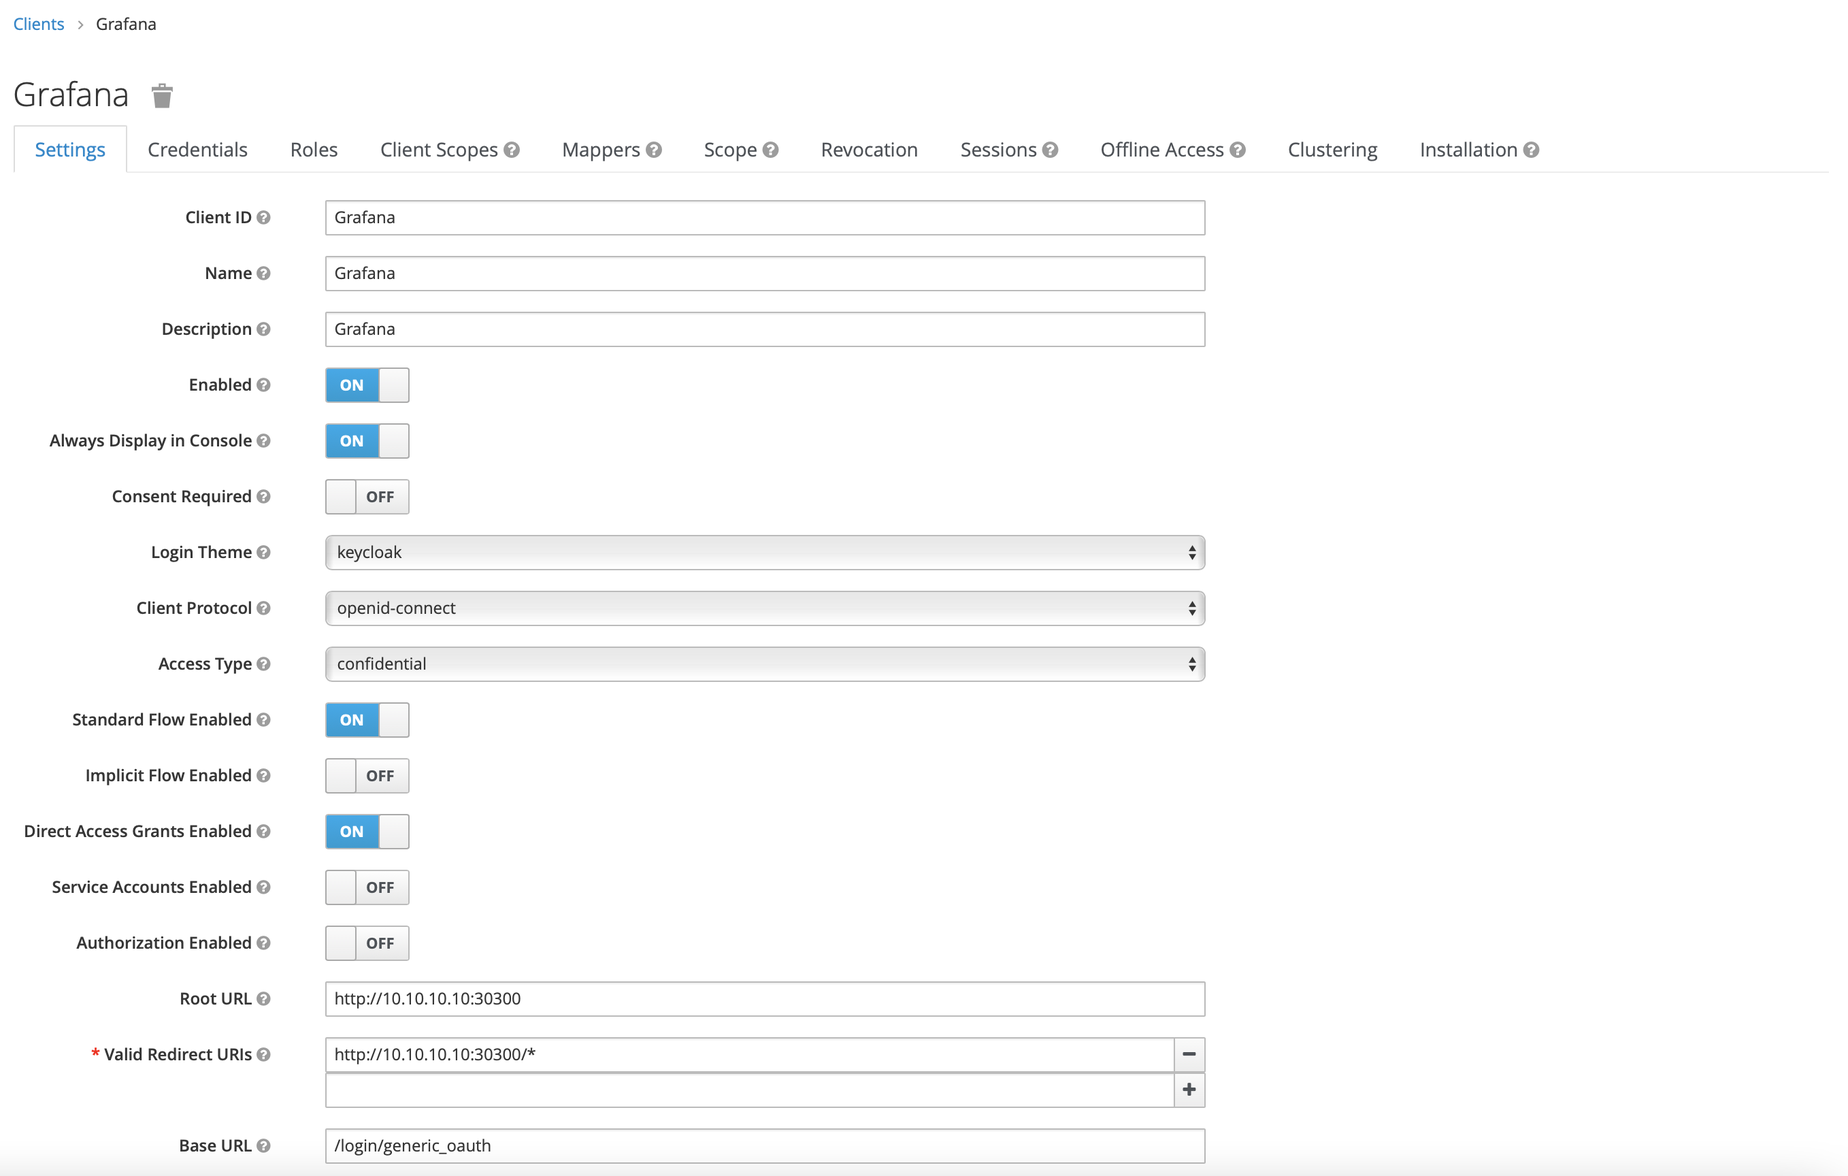
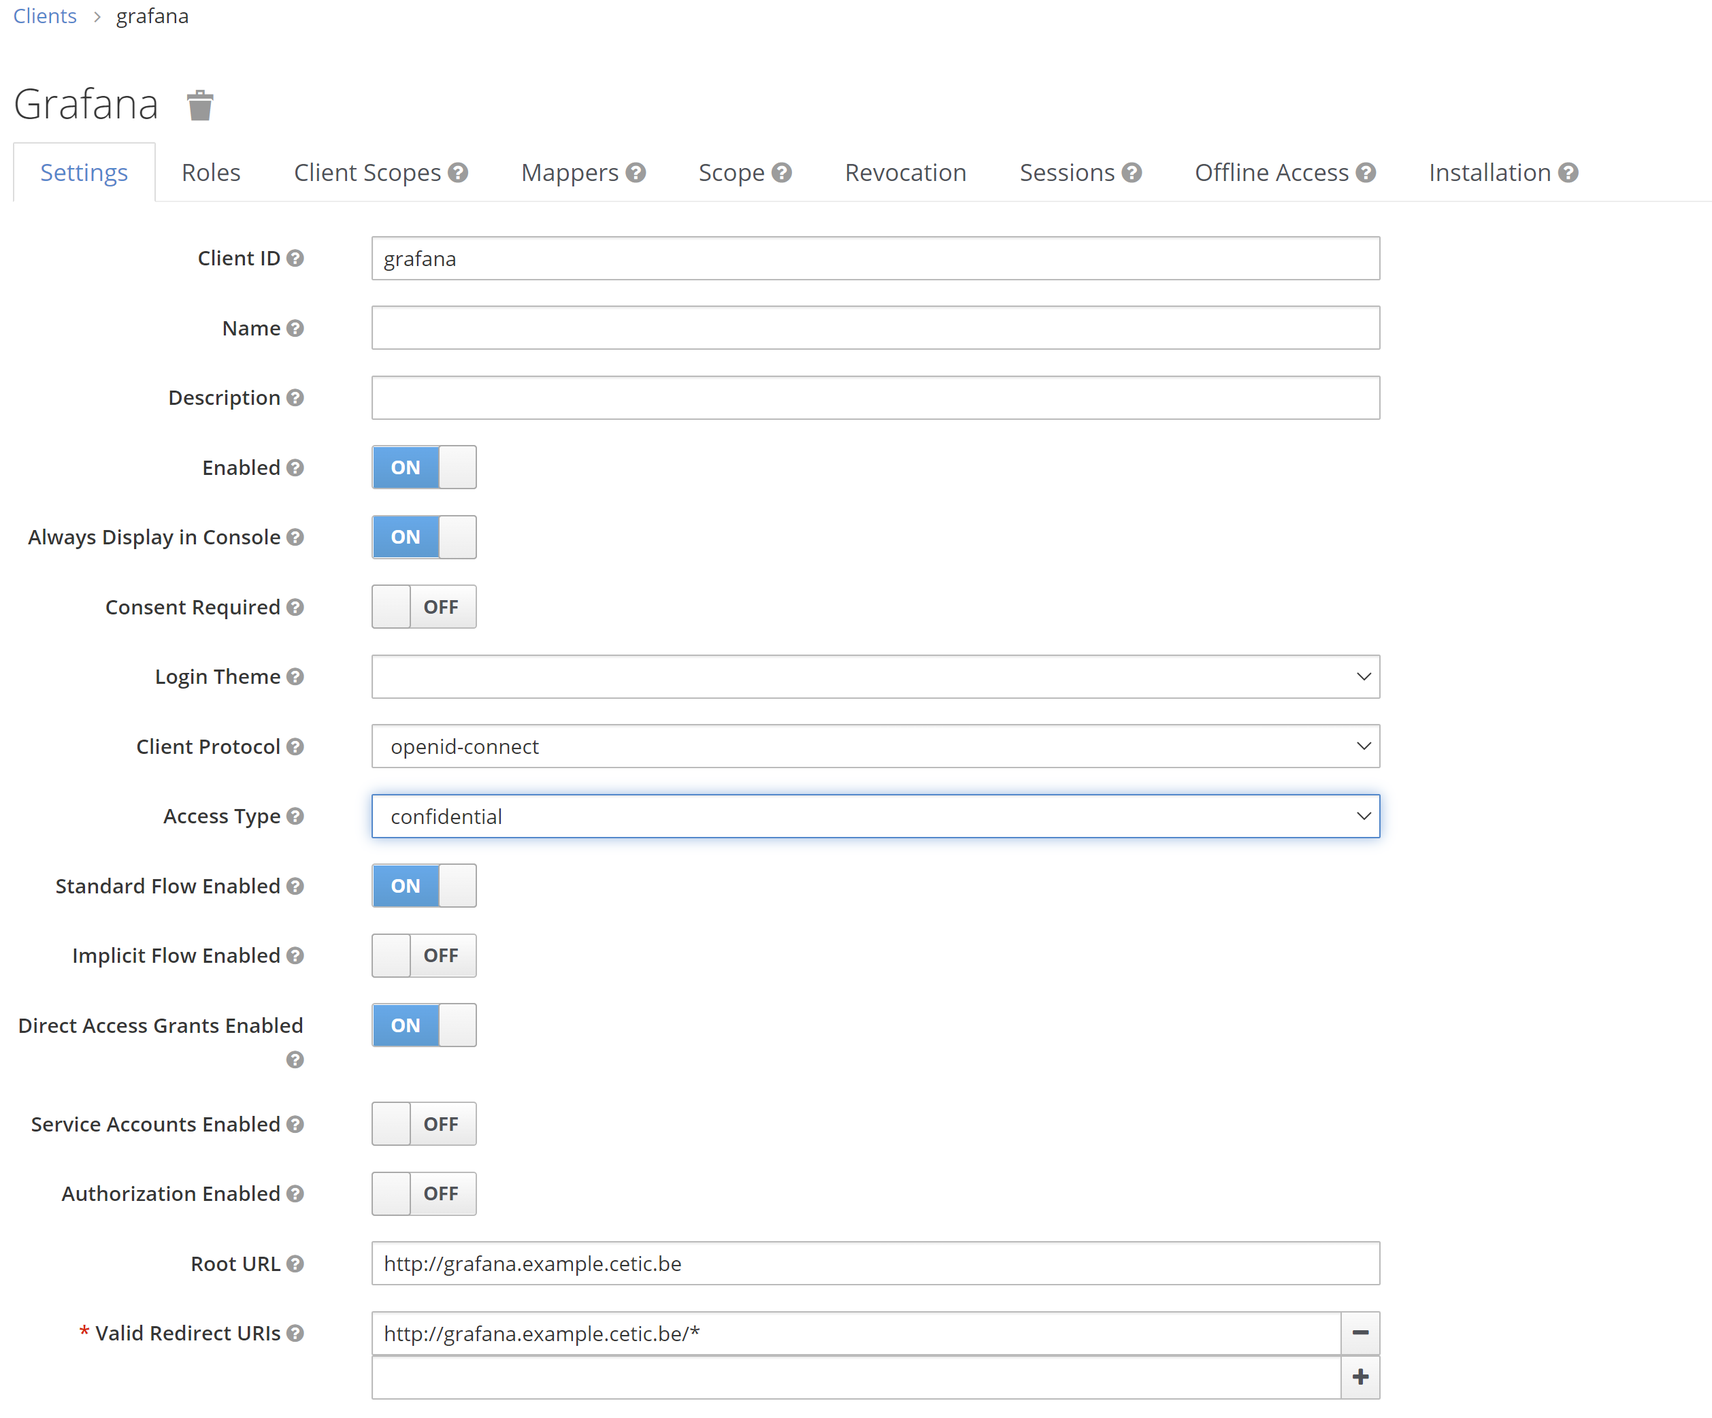
Adapt Keycloak documentation

diff --git a/doc/keycloak.md b/doc/keycloak.md
@@ -2,7 +2,7 @@ KeyCloak
 =============
 
 ```
-git clone -b feature/keycloak git@github.com:cetic/helm-fadi.git
+git clone -b feature/keycloak https://github.com/cetic/helm-fadi.git
 cd helm-fadi
 helm dep up
 helm install fadi .
@@ -55,16 +55,16 @@ When we click `Create`, the main admin console page opens with realm set to devo
 
 To create clients we first click **Clients** in the **left side menu** to open the Clients page.
 
-<img src="images/installation/keycloak-clients.png" alt="Keucloak create client"/>
+<img src="images/installation/keycloak-clients.png" alt="Keycloak create client"/>
 
 On the right side, we click `Create` and then on the `Add Client` dialog, we create a client called `Grafana` by filling the fields as follows:
 
-* Client ID: `Grafana`
-* Root URL: `\<your-grafana-address>`, for this example our grafana adress is http://10.10.10.10:30300
+* Client ID: `grafana`
+* Root URL: `\<your-grafana-address>`, for this example our grafana adress is http://grafana.example.cetic.be
 
 <img src="images/installation/grafana-client.png" alt="Keycloak create client"/>
 
-Once the client is created, we open the client configuration and change the **access type** to **confidential** from public, and complete the rest of the fields as shown below assuming our Grafana address is http://10.10.10.10:30300, then we **Save the config**.
+Once the client is created, we open the client configuration and change the **access type** to **confidential** from public, and complete the rest of the fields as shown below assuming our Grafana address is http://grafana.example.cetic.be, then we **Save the config**.
 
 
 <img src="images/installation/grafana-client-created.png" alt="Keycloak Grafana client created"/>
@@ -77,31 +77,21 @@ Now we open the client Grafana again, go to **credentials tag** and copy the `cl
 
 ## Create Nifi client
 
-To create a client for Nifi, we select `Clients` from the menu on the left, and then click the `Create` button to add a new client. Enter the Client ID `org:apache:nifi:saml:sp`, select `SAML` as the Client Protocol, and click `Save`.
+Repeat the same steps as Grafana and replace the appropriate fields as follows :
 
-<img src="images/installation/client-nifi.png" alt="Keycloak - nifi client creation"/>
+* Client ID: `nifi`
+* Root URL: `\<your-nifi-address>`, for this example our grafana adress is https://nifi.example.cetic.be (for Nifi, don't forget the "s" in https)
 
-Once created we need to configure **Root URL**, **Valid Redirect URIs**, **Base URL**, and **Master SAML Processing URL** as follows where `https://192.168.64.57:30236` is Nifi address:
+## Create jupyterhub client
 
-* Root URL: `https://192.168.64.57:30236`
-* Valid Redirect URIs: `/nifi-api/access/saml/*`
-* Base URL: `/nifi`
-* Master SAML Processing URL: `https://192.168.64.57:30236/nifi-api/access/saml/metadata`
+Repeat the same steps as Grafana and replace the appropriate fields as follows :
 
-Since NiFi’s SAML implementation doesn’t use a single processing URL, we also need to configure the fine-grained SAML URLs. The values for the URLs should look like the following:
-
-<img src="images/installation/fine-grain-saml.png" alt="Create user"/>
-
-The last step is to add the certificates container `keystore.jks` **that we're going to use to secure the NiFi cluster**, to do so we click on the **SAML Keys** tab, and then click Import. We are going to import the `keystore.jks` that is used in `nifi.properties`.
-
-<img src="images/installation/import-keystore.png" alt="Create user"/>
-
-Now all that is left is to configure NiFi accordingly.
+* Client ID: `jupyterhub`
+* Root URL: `\<your-jupyterhub-address>`, for this example our grafana adress is https://jupyterhub.example.cetic.be
 
 ## Create user
 
-
-In the devops realm, we need to create a new user and a temporary password for that new user, we head to the left menu, click Users to open the user list page.
+In the devops realm, we need to create a new user and a password for that new user, we head to the left menu, click Users to open the user list page.
 
 <img src="images/installation/users-page.png" alt="Create user"/>
 
@@ -111,107 +101,72 @@ On the right side of the empty user list, click Add User to open the Add user pa
 <img src="images/installation/add-user.png" alt="Create user"/>
 
 
-we enter a name in the Username field (this is the only required field), then we flip the Email Verified switch to On and click Save.
+We enter a name in the Username field (this is the only required field), then we flip the Email Verified switch to On and click Save.
 
 <img src="images/installation/john-doe.png" alt="Create user"/>
 
 
 
-The management page for the new user opens, we Click the **Credentials tab** to set a temporary password for the new user, we type a new password and confirm it.
+The management page for the new user opens, we Click the **Credentials tab** to set a password for the new user, we type a new password and confirm it. For this example, we desactivate the temporary option.
 
 <img src="images/installation/change-pass.png" alt="Create user"/>
 
 
-the we Click **Set Password** to set the user password to the new one we specified.
+Then we Click **Set Password** to set the user password to the new one we specified.
 
 ## Role mapping
 
 After creating the user we need to map this user to the grafana client we created earlier.
 
-first we head to the clients page and choose grafana, then  we Click the **Roles tab** and then click add Role:
+First we head to the clients page and choose grafana, then  we Click the **Roles tab** and then click add Role:
 
 <img src="images/installation/create-role.png" alt="Create user"/>
 
-we fill in the role name and description then click save.
+We fill in the role name and description then click save.
 
 <img src="images/installation/admin-role.png" alt="Create user"/>
 
-now that we have at least one role for grafana we map this new role to the user we created earlier so we can log in using the new user.
+Now that we have at least one role for grafana we map this new role to the user we created earlier so we can log in using the new user.
 
-now we head back to the Users page and chose john, then we click the **Role mappings** tab, in **client role** dropdown menu we choose grafana.
+Now we head back to the Users page and chose john, then we click the **Role mappings** tab, in **client role** dropdown menu we choose grafana.
 
 
 <img src="images/installation/role-mapping.png" alt="Create user"/>
 
 
-then we can find the role admin that we created, we **select admin** and then click **add selected**.
+Then we can find the role admin that we created, we **select admin** and then click **add selected**.
 
 ## 2. Integrate Keycloak
 
 ### Integrate with Grafana
 
-After creating the client in Keycloak we have to configure Grafana to use Oauth and connect it to Keycloak, we do so in Grafana's **grafana.ini** file that we can configure in the **helm chart's configmap** [keycloak.yaml](https://github.com/cetic/helm-fadi/blob/feature/keycloak/templates/keycloak.yaml).
+After creating the client in Keycloak we have to configure Grafana to use openid connect and connect it to Keycloak, we do so in Grafana's **grafana.ini** file that we can configure in the **helm chart's values file** [values.yaml](https://github.com/cetic/helm-fadi/blob/master/values.yaml).
 
 Now to configure Grafana we edit as below: 
 
-* `devops` is the realm name, client id is the client name and client secret the **previously copied code**, in this example **Keycloak's NodePort** is **30330** which makes **keycloak's address** **http://10.10.10.10:30330** ( we can find the Generic OAuth [keycloak.yaml](https://github.com/cetic/helm-fadi/blob/feature/keycloak/templates/keycloak.yaml#L469-L492). 
+* `devops` is the realm name, client id is the client name and client secret the **previously copied code**, in this example **keycloak's address** is **http://keycloak.example.cetic.be**. 
 * `client_secret` with Keycloak > Clients > Grafana > Credentials > Secret
 
 ```
-    #################################### Generic OAuth #######################
-    [auth.generic_oauth]
-    name = OAuth
-    enabled = true
-    allow_sign_up = true
-    client_id = Grafana
-    client_secret = ad35e16d-96d1-46ab-88d8-7cdb1512b608
-    scopes = openid profile email
-    email_attribute_name = email:primary
-    email_attribute_path =
-    login_attribute_path =
-    name_attribute_path =
-    role_attribute_path =
-    id_token_attribute_name =
-    auth_url = http://10.10.10.10:30330/auth/realms/devops/protocol/openid-connect/auth
-    token_url = http://10.10.10.10:30330/auth/realms/devops/protocol/openid-connect/token
-    api_url = http://10.10.10.10:30330/auth/realms/devops/protocol/openid-connect/userinfo
-    allowed_domains =
-    team_ids =
-    allowed_organizations =
-    tls_skip_verify_insecure = false
-    tls_client_cert =
-    tls_client_key =
-    tls_client_ca =
+grafana:
+---
+  grafana.ini:
+---
+    auth.generic_oauth:
+      enabled: true
+      scopes: openid email profile
+      name: keycloak
+      tls_skip_verify_insecure: false
+      allow_sign_up: true
+      client_id: grafana
+      client_secret: cfcb88cb-78c5-4301-9ffd-e9779d7d8c5e
+      auth_url: http://keycloak.example.cetic.be/auth/realms/devops/protocol/openid-connect/auth
+      token_url: http://keycloak.example.cetic.be/auth/realms/devopsr/protocol/openid-connect/token
+      api_url: http://keycloak.example.cetic.be/auth/realms/devops/protocol/openid-connect/userinfo
+      ---
+    server:
+      root_url: http://grafana.example.cetic.be  # change to your grafana domainname
 ```
-
-Then back to the [server configuration](https://github.com/cetic/helm-fadi/blob/feature/keycloak/templates/keycloak.yaml#L55), we configure `root_url` and `domain` as shown below where **http://10.10.10.10:30300** is the **Grafana address**.
-
-```
- #################################### Server ##############################
-    [server]
-    # Protocol (http, https, h2, socket)
-    protocol = http
-
-    # The ip address to bind to, empty will bind to all interfaces
-    http_addr =
-
-    # The http port to use
-    http_port = 3000
-
-    # The public facing domain name used to access grafana from a browser
-    domain = 10.10.10.10
-
-    # Redirect to correct domain if host header does not match domain
-    # Prevents DNS rebinding attacks
-    enforce_domain = false
-
-    # The full public facing url
-    # root_url = %(protocol)s://%(domain)s:%(http_port)s/
-    root_url = http://10.10.10.10:30300
-
-```
-
-> PS: this is a temporary and not the final format of the document as it will be completed as we progress with adding Keycloak to FADI.
 
 Now after configuring Grafana we need to apply these modifications, to do so we can use the command:
 
@@ -219,121 +174,95 @@ Now after configuring Grafana we need to apply these modifications, to do so we 
 helm upgrade --install fadi .
 ```
 
-Once FADI upgrades, Grafana will restart with our new configuration, now we can head to our Grafana and we should notice that we have the option **Sign in with OAuth** which is the option we are going to choose.
+Once FADI upgrades, Grafana will restart with our new configuration, now we can head to our Grafana and we should notice that we have the option **Sign in with keycloak** which is the option we are going to choose.
 
-<img src="images/installation/sign-in-with-oauth.png" alt="Create user" />
+<img src="images/installation/sign-in-with-keycloak.png" alt="Create user" />
 
-that will take us to a keycloak themed authentification screen, that's where we can authenticate using the **user** that we created earlier in keycloak and mapped to the Grafana client.
+That will take us to a keycloak themed authentification screen, that's where we can authenticate using the **user** that we created earlier in keycloak and mapped to the Grafana client.
 
 <img src="images/installation/grafana-keycloak-auth.png" alt="Create user"/>
 
-here we can authenticate using the user john and the temporary password we set up earlier, before logging in to grafana we will be asked to **update the password** like shown below:
-
-
-<img src="images/installation/update-password.png" alt="Create user"/>
-
-
-We set a new password for ou user and then click **submit**, after we submit we will receive a grafana server error that's fine all we have to do is to try to log in to grafana again and this time we will be logged in automatically.
-
+Here we can authenticate using the user emal john@mail.com and the password we set up earlier.
 
 This document is inspired by keycloak's [getting started](https://www.keycloak.org/docs/latest/getting_started/) and this [tutorial](https://www.techrunnr.com/how-to-setup-oauth-for-grafana-using-keycloak/).
 
 ### Integrate with Nifi
 
-To perform any type of authentication, we need a secured NiFi instance with a keystore, truststore, and https host/port. in the [nifi's helm chart](https://github.com/cetic/helm-nifi) we generate self signed certificates by enabling the built-in [nifi-toolkit](https://nifi.apache.org/docs/nifi-docs/html/toolkit-guide.html) container by setting `auth.secure.enabled` to true.
+To configure Nifi, we edit [values.yaml](https://github.com/cetic/helm-fadi/blob/master/values.yaml) as below: 
 
 
-Now to configure nifi, the main configuration is in the `nifi.properties` file, it should look something like this :
-
-~~PS: This configuration can be set through the `values.yaml` file in the helm chart by setting `auth.secure.enabled` and `properties.clusterSecure` to true, `properties.httpPort` to null and `properties.httpsPort` to 9443.~~
+* `client_secret` with Keycloak > Clients > Nifi > Credentials > Secret
 
 ```
-cd charts
-git clone -b feature/keycloak git@github.com:cetic/helm-nifi.git
-cd helm-nifi
-vim values.yaml
-# edit the following:
-webProxyHost:<minikube_ip>:30236
-webHttpsHost:
-auth.keycloak.address: <minikube_ip>
-auth.keycloak.port: minikube service list -> fadi-keycloak port 
-auth.oidc.enabled: true
-auth.oidc.discovery.url: http://{{.Values.auth.keycloak.address}}:{{.Values.auth.keycloak.port}}/auth/realms/{{.Values.auth.keycloak.realm}}/.well-known/openid-configuration
-auth.oidc.di: true
-
+nifi:
+  enabled: true
+  ---
+  auth:
+    ---
+    oidc:
+      enabled: true
+      discoveryUrl: http://keycloak.example.cetic.be/auth/realms/devops/.well-known/openid-configuration
+      clientId: nifi
+      clientSecret: 49342125-4715-4b1f-8d84-57e20c92db2c
+      claimIdentifyingUser: email
+      admin: john@mail.com
+      ## Request additional scopes, for example profile
+      additionalScopes: 
 ```
 
-Edit `nifi.properties`:
+Now after configuring Nifi we need to apply these modifications, to do so we can use the command:
 
-```
-nifi.remote.input.secure=true
-
-nifi.web.http.host=
-nifi.web.http.port=
-
-nifi.web.https.host=
-nifi.web.https.port=9443
-
-nifi.security.keystore=/path/to/keystore.jks
-nifi.security.keystoreType=JKS
-nifi.security.keystorePasswd=changeit
-nifi.security.keyPasswd=changeit
-
-nifi.security.truststore=/path/to/truststore.jks
-nifi.security.truststoreType=JKS
-nifi.security.truststorePasswd=changeit
-
+```bash
+helm upgrade --install fadi .
 ```
 
-then we need to add the **SAML** configuration since it's the protocol used here, mainly we need to set `nifi.security.user.saml.idp.metadata.url` to `http://<link-to-keycloak>/auth/realms/devops/protocol/saml/descriptor` and `nifi.security.user.saml.sp.entity.id` to the previously created nifi client `org:apache:nifi:saml:sp` so the configuration should look something like this :
+Once FADI upgrades, Nifi will restart with our new configuration. Now we can head to our Nifi and we will autimatically redirect to Keycloak for the authentication.
 
->This configuration can also be set through the `values.yaml` file in the helm chart by the variables `auth.keycloak.*` .
+<img src="images/installation/grafana-keycloak-auth.png" alt="Create user"/>
+
+Here we can authenticate using the user emal john@mail.com and the password we set up earlier.
+
+### Integrate with Jupyterhub
+
+To configure Nifi, we edit [values.yaml](https://github.com/cetic/helm-fadi/blob/master/values.yaml) as below: 
 
 
-```
-# SAML Properties #
-nifi.security.user.saml.idp.metadata.url=http://192.168.64.57:32766/auth/realms/devops/protocol/saml/descriptor
-nifi.security.user.saml.sp.entity.id=org:apache:nifi:saml:sp
-nifi.security.user.saml.identity.attribute.name=
-nifi.security.user.saml.group.attribute.name=
-nifi.security.user.saml.metadata.signing.enabled=false
-nifi.security.user.saml.request.signing.enabled=false
-nifi.security.user.saml.want.assertions.signed=true
-nifi.security.user.saml.signature.algorithm=http://www.w3.org/2001/04/xmldsig-more#rsa-sha256
-nifi.security.user.saml.signature.digest.algorithm=http://www.w3.org/2001/04/xmlenc#sha256
-nifi.security.user.saml.message.logging.enabled=false
-nifi.security.user.saml.authentication.expiration=12 hours
-nifi.security.user.saml.single.logout.enabled=false
-nifi.security.user.saml.http.client.truststore.strategy=JDK
-nifi.security.user.saml.http.client.connect.timeout=30 secs
-nifi.security.user.saml.http.client.read.timeout=30 secs
+* `client_secret` with Keycloak > Clients > Nifi > Credentials > Secret
 
 ```
-
-The last thing we need to do is configure NiFi’s authorizers.xml. We will use the file-based providers, so we need to setup an initial user and initial admin that corresponds to one of the users we added to Keycloak. We’ll use the user john.
-
-
+jupyterhub:
+  enabled: true
+  ---
+  hub:
+    config:
+    ---
+      GenericOAuthenticator:
+        client_id: jupyterhub
+        client_secret: 5677bb90-794e-4cff-a8ef-0586c2df73cf
+        oauth_callback_url: http://jupyterhub.example.cetic.be/hub/oauth_callback
+        authorize_url: http://keycloak.example.cetic.be/auth/realms/devops/protocol/openid-connect/auth
+        token_url: http://keycloak.example.cetic.be/auth/realms/devops/protocol/openid-connect/token
+        userdata_url: http://keycloak.example.cetic.be/auth/realms/devops/protocol/openid-connect/userinfo
+        login_service: keycloak
+        username_key: email
+        userdata_params:
+          state: state
+      JupyterHub:
+        authenticator_class: generic-oauth
 ```
-<userGroupProvider>
-    <identifier>file-user-group-provider</identifier>
-    <class>org.apache.nifi.authorization.FileUserGroupProvider</class>
-    <property name="Users File">./conf/users.xml</property>
-    <property name="Legacy Authorized Users File"></property>
-    <property name="Initial User Identity 1">john</property>
-</userGroupProvider>
 
-<accessPolicyProvider>
-    <identifier>file-access-policy-provider</identifier>
-    <class>org.apache.nifi.authorization.FileAccessPolicyProvider</class>
-    <property name="User Group Provider">file-user-group-provider</property>
-    <property name="Authorizations File">./conf/authorizations.xml</property>
-    <property name="Initial Admin Identity">john</property>
-    <property name="Legacy Authorized Users File"></property>
-    <property name="Node Identity 1"></property>
-    <property name="Node Group"></property>
-</accessPolicyProvider>
+Now after configuring Jupyterhub we need to apply these modifications, to do so we can use the command:
 
+```bash
+helm upgrade --install fadi .
 ```
-We need to pre-configure all of this in the [helm chart](https://github.com/cetic/helm-nifi) before deploying it for it to work in a kubernetes cluser, here's an **already configured** [branch](https://github.com/cetic/helm-nifi/blob/feature/keycloak/configs/nifi.properties).
 
-> PS: the current configuration restults in a ERR_BAD_SSL_CLIENT_AUTH_CERT error because we're using self-signed certs auto-generated by the tls-toolkit, we're currently working to replace them with valid certs.
+Once FADI upgrades, Jupyterhub will restart with our new configuration, now we can head to our Jupyterhub and we should notice that we have the option **Sign in with keycloak** which is the option we are going to choose.
+
+<img src="images/installation/hub-sign-in-with-keycloak.png" alt="Create user" />
+
+That will take us to a keycloak themed authentification screen, that's where we can authenticate using the **user** that we created earlier in keycloak.
+
+<img src="images/installation/grafana-keycloak-auth.png" alt="Create user"/>
+
+Here we can authenticate using the user emal john@mail.com and the password we set up earlier.
